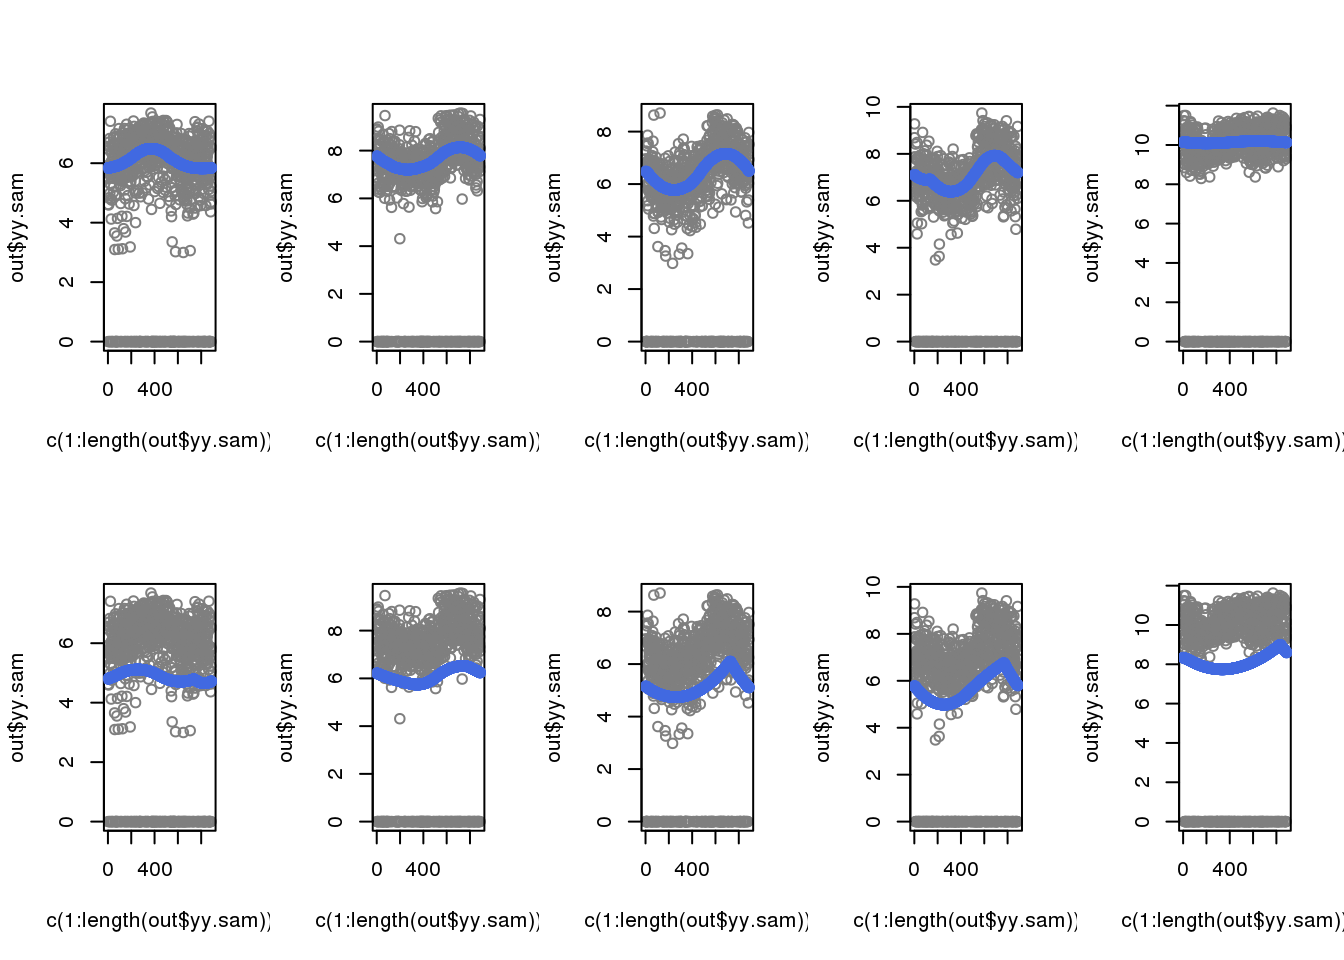
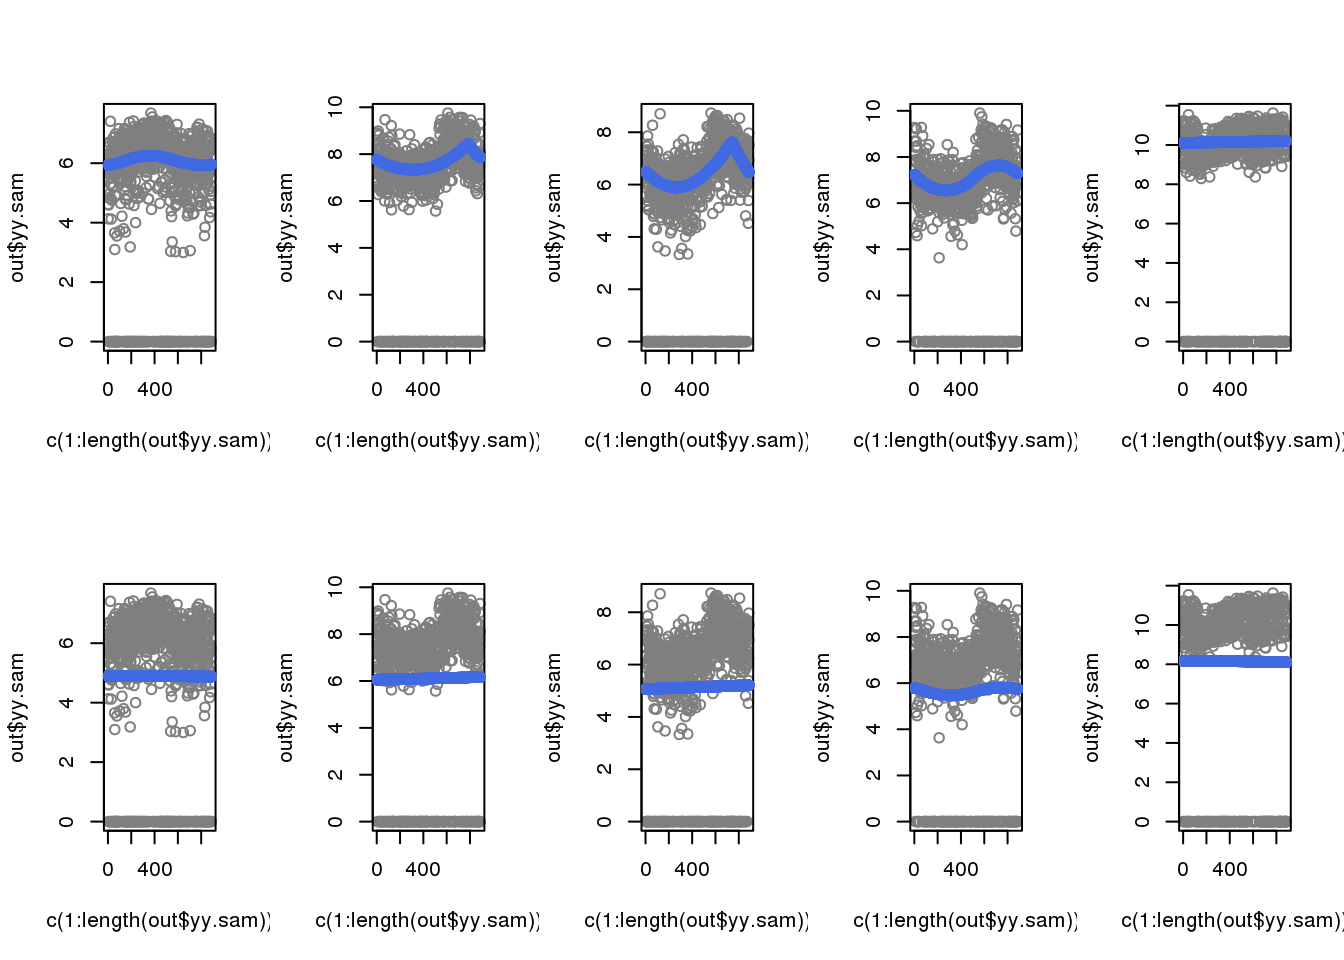
Build site.

diff --git a/docs/npreg-trendfilter-prelim.html b/docs/npreg-trendfilter-prelim.html
@@ -219,11 +219,12 @@ div.section {
 <div id="TOC">
 <ul>
 <li><a href="#data-and-packages">Data and packages</a></li>
-<li><a href="#emprical-data-for-evaluating-methods">Emprical data for evaluating methods</a></li>
+<li><a href="#consider-5-genes-previously-identified-to-be-cyclical">Consider 5 genes previously identified to be cyclical</a></li>
 <li><a href="#property-of-genes-with-many-zeros">Property of genes with many zeros</a></li>
-<li><a href="#simulate-from-the-empirical-data">Simulate from the empirical data</a></li>
+<li><a href="#make-simulated-data-from-the-5-identified-cyclical-genes">Make simulated data from the 5 identified cyclical genes</a><ul>
 <li><a href="#fitting-trendfilter">Fitting trendfilter</a></li>
-<li><a href="#eval-for-selecting-polynomial-order">Eval for selecting polynomial order</a></li>
+<li><a href="#results">Results</a></li>
+</ul></li>
 <li><a href="#session-information">Session information</a></li>
 </ul>
 </div>
@@ -232,10 +233,10 @@ div.section {
 shared across the workflowr files. -->
 <!-- Update knitr chunk options -->
 <!-- Insert the date the file was last updated -->
-<p><strong>Last updated:</strong> 2018-04-17</p>
+<p><strong>Last updated:</strong> 2018-05-07</p>
 <!-- Insert the code version (Git commit SHA1) if Git repository exists and R
  package git2r is installed -->
-<p><strong>Code version:</strong> a8ef094</p>
+<p><strong>Code version:</strong> 41ea88d</p>
 <hr />
 <div id="data-and-packages" class="section level2">
 <h2>Data and packages</h2>
@@ -246,8 +247,6 @@ library(Biobase)
 library(dplyr)
 library(matrixStats)
 
-library(NPCirc)
-library(smashr)
 library(genlasso)</code></pre>
 <p>Load data</p>
 <pre class="r"><code>df &lt;- readRDS(file=&quot;../data/eset-final.rds&quot;)
@@ -268,8 +267,8 @@ source(&quot;../code/utility.R&quot;)
 source(&quot;../code/npreg/npreg.methods.R&quot;)</code></pre>
 <p>–</p>
 </div>
-<div id="emprical-data-for-evaluating-methods" class="section level2">
-<h2>Emprical data for evaluating methods</h2>
+<div id="consider-5-genes-previously-identified-to-be-cyclical" class="section level2">
+<h2>Consider 5 genes previously identified to be cyclical</h2>
 <p>Consider 5 genes previously identified to have cyclical patterns and 5 genes previously identified to not have cyclical patterns. Note that there’s a discrepany (albeit small) between the samples that was used to identify cyclical patterns and the samples that are in the finalized data.</p>
 <pre class="r"><code>examples &lt;- readRDS(&quot;../output/npreg-methods.Rmd/cyclegenes.rds&quot;)
 
@@ -302,6 +301,7 @@ for (i in 1:5) {
   plot(cycles.not.log2cpm[i,], main = cycles.not$hgnc_symbol[i])
 }</code></pre>
 <p><img src="figure/npreg-trendfilter-prelim.Rmd/unnamed-chunk-6-1.png" width="672" style="display: block; margin: auto;" /></p>
+<hr />
 </div>
 <div id="property-of-genes-with-many-zeros" class="section level2">
 <h2>Property of genes with many zeros</h2>
@@ -319,8 +319,8 @@ plot(x=gene_nas, y=gene_means)</code></pre>
 <p><img src="figure/npreg-trendfilter-prelim.Rmd/unnamed-chunk-7-1.png" width="672" style="display: block; margin: auto;" /></p>
 <hr />
 </div>
-<div id="simulate-from-the-empirical-data" class="section level2">
-<h2>Simulate from the empirical data</h2>
+<div id="make-simulated-data-from-the-5-identified-cyclical-genes" class="section level2">
+<h2>Make simulated data from the 5 identified cyclical genes</h2>
 <p>The goal of simulation is to compare the methods in their ability to recover cyclical patterns despite of zero observations.</p>
 <ol style="list-style-type: decimal">
 <li><p>Scenario 1: original data</p></li>
@@ -347,9 +347,8 @@ for (i in 1:5) {
   plot(scene.2[i,], main = cycles$hgnc_symbol[i])
 }</code></pre>
 <p><img src="figure/npreg-trendfilter-prelim.Rmd/unnamed-chunk-8-1.png" width="672" style="display: block; margin: auto;" /></p>
-</div>
-<div id="fitting-trendfilter" class="section level2">
-<h2>Fitting trendfilter</h2>
+<div id="fitting-trendfilter" class="section level3">
+<h3>Fitting trendfilter</h3>
 <p>out.1: excluding zero</p>
 <p>out.2: including zero</p>
 <pre class="r"><code>out.1 &lt;- lapply(1:5, function(i) {
@@ -373,6 +372,10 @@ out.2 &lt;- lapply(1:5, function(i) {
 
 saveRDS(out.1, file = &quot;../output/npreg-trendfilter-prelim.Rmd/out1.rds&quot;)
 saveRDS(out.2, file = &quot;../output/npreg-trendfilter-prelim.Rmd/out2.rds&quot;)</code></pre>
+</div>
+<div id="results" class="section level3">
+<h3>Results</h3>
+<p>When including zeros in the fitting, the previously cyclical trend disappeared.</p>
 <pre class="r"><code>out.1 &lt;- readRDS(file = &quot;../output/npreg-trendfilter-prelim.Rmd/out1.rds&quot;)
 out.2 &lt;- readRDS(file = &quot;../output/npreg-trendfilter-prelim.Rmd/out2.rds&quot;)
 
@@ -392,107 +395,6 @@ for (i in 1:5) {
 <p><img src="figure/npreg-trendfilter-prelim.Rmd/unnamed-chunk-10-1.png" width="672" style="display: block; margin: auto;" /></p>
 <hr />
 </div>
-<div id="eval-for-selecting-polynomial-order" class="section level2">
-<h2>Eval for selecting polynomial order</h2>
-<pre class="r"><code>theta &lt;- readRDS(&quot;../output/images-time-eval.Rmd/theta.rds&quot;)
-
-chip_ids &lt;- c(&quot;NA18511&quot;,&quot;NA18855&quot;,&quot;NA18870&quot;,&quot;NA19098&quot;,&quot;NA19101&quot;,&quot;NA19160&quot;)
-
-id &lt;- which(pdata$chip_id == chip_ids[1])
-log2cpm.sub &lt;- log2cpm.all[rownames(log2cpm.all) %in% symbols$ensembl_gene_id[1:5],]
-theta.train &lt;- theta[-id]
-theta.test &lt;- theta[id]
-
-out.order2 &lt;- lapply(1:5, function(i) {
-  yy &lt;- log2cpm.sub[i,]
-  yy.train &lt;- yy[-id]
-  yy.test &lt;- yy[id]
-  pos.yy.train &lt;- c(1:length(yy))[-id]
-  pos.yy.test &lt;- c(1:length(yy))[id]
-  nonzero.test &lt;- yy.test!=0
-    
-  out.trend &lt;- fit.trendfilter(yy=yy.train, pos.yy = pos.yy.train, polyorder = 2)
-  f &lt;- approxfun(x=out.trend$trend.pos, y=out.trend$trend.yy, rule=2)  
-  
-  test.mad.pred &lt;- mad(yy.test[nonzero.test]-f(pos.yy.test[nonzero.test]), constant = 1)
-  test.mad.constant &lt;- mad(yy.test[nonzero.test]-mean(yy.test[nonzero.test]), constant = 1)
-  test.mad.ratio &lt;- test.mad.pred/test.mad.constant
-
-  return(list(yy=yy,
-              yy.train=yy.train,
-              pos.train=pos.yy.train,
-              yy.test=yy.test,
-              pos.test=pos.yy.test,
-              pred.train.yy=out.trend$trend.yy,
-              pred.train.xx=out.trend$trend.pos,
-              pred.test.yy=f(pos.yy.test),
-              pred.test.xx=pos.yy.test,
-              test.mad.ratio=test.mad.ratio,
-              train.mad.ratio=out.trend$trend.mad.ratio))
-})
-
-
-out.order3 &lt;- lapply(1:5, function(i) {
-  yy &lt;- log2cpm.sub[i,]
-  yy.train &lt;- yy[-id]
-  yy.test &lt;- yy[id]
-  pos.yy.train &lt;- c(1:length(yy))[-id]
-  pos.yy.test &lt;- c(1:length(yy))[id]
-  nonzero.test &lt;- yy.test!=0
-    
-  out.trend &lt;- fit.trendfilter(yy=yy.train, pos.yy = pos.yy.train, polyorder = 3)
-  f &lt;- approxfun(x=out.trend$trend.pos, y=out.trend$trend.yy, rule=2)  
-  
-  test.mad.pred &lt;- mad(yy.test[nonzero.test]-f(pos.yy.test[nonzero.test]), constant = 1)
-  test.mad.constant &lt;- mad(yy.test[nonzero.test]-mean(yy.test[nonzero.test]), constant = 1)
-  test.mad.ratio &lt;- test.mad.pred/test.mad.constant
-
-  return(list(yy=yy,
-              yy.train=yy.train,
-              pos.train=pos.yy.train,
-              yy.test=yy.test,
-              pos.test=pos.yy.test,
-              pred.train.yy=out.trend$trend.yy,
-              pred.train.xx=out.trend$trend.pos,
-              pred.test.yy=f(pos.yy.test),
-              pred.test.xx=pos.yy.test,
-              test.mad.ratio=test.mad.ratio,
-              train.mad.ratio=out.trend$trend.mad.ratio))
-})
-
-saveRDS(out.order2, file = &quot;../output/npreg-trendfilter-prelim.Rmd/out.order2.rds&quot;)
-saveRDS(out.order3, file = &quot;../output/npreg-trendfilter-prelim.Rmd/out.order3.rds&quot;)</code></pre>
-<pre class="r"><code>out.order2 &lt;- readRDS(file = &quot;../output/npreg-trendfilter-prelim.Rmd/out.order2.rds&quot;)
-out.order3 &lt;- readRDS(file = &quot;../output/npreg-trendfilter-prelim.Rmd/out.order3.rds&quot;)
-
-par(mfrow=c(2,5))
-for (i in 1:length(out.order2)) {
-  with(out.order2[[i]], {
-    plot(y=yy.train, x=pos.train, col = &quot;gray50&quot;)
-    lines(y=pred.train.yy, x=pred.train.xx, col = &quot;black&quot;, lwd=1)
-    points(y=yy.test,x=pos.test, col = &quot;blue&quot;, pch=16, cex=.7)
-    lines(y=pred.test.yy, x=pred.test.xx, col = &quot;blue&quot;, lwd=2)
-  })
-}
-for (i in 1:length(out.order3)) {
-  with(out.order3[[i]], {
-    plot(y=yy.train, x=pos.train, col = &quot;gray50&quot;)
-    lines(y=pred.train.yy, x=pred.train.xx, col = &quot;black&quot;, lwd=1)
-    points(y=yy.test,x=pos.test, col = &quot;blue&quot;, pch=16, cex=.7)
-    lines(y=pred.test.yy, x=pred.test.xx, col = &quot;blue&quot;, lwd=2)
-  })
-}</code></pre>
-<p><img src="figure/npreg-trendfilter-prelim.Rmd/unnamed-chunk-12-1.png" width="672" style="display: block; margin: auto;" /></p>
-<pre class="r"><code>test.order2 &lt;- sapply(out.order2, function(x) x$test.mad.ratio)
-test.order3 &lt;- sapply(out.order3, function(x) x$test.mad.ratio)
-cbind(test.order2,test.order3)</code></pre>
-<pre><code>     test.order2 test.order3
-[1,]   1.0202802    1.003311
-[2,]   0.9649802    1.016837
-[3,]   0.9868747    1.020511
-[4,]   1.0450214    1.068419
-[5,]   1.0001935    1.161451</code></pre>
-<hr />
 </div>
 <div id="session-information" class="section level2">
 <h2>Session information</h2>
@@ -518,35 +420,27 @@ attached base packages:
 
 other attached packages:
  [1] biomaRt_2.34.2      genlasso_1.3        igraph_1.2.1       
- [4] smashr_1.1-0        caTools_1.17.1      data.table_1.10.4-3
- [7] Matrix_1.2-10       wavethresh_4.6.8    MASS_7.3-47        
-[10] ashr_2.2-7          Rcpp_0.12.16        NPCirc_2.0.1       
-[13] matrixStats_0.53.1  dplyr_0.7.4         Biobase_2.38.0     
-[16] BiocGenerics_0.24.0 conicfit_1.0.4      geigen_2.1         
-[19] pracma_2.1.4        circular_0.4-93    
+ [4] Matrix_1.2-10       MASS_7.3-47         matrixStats_0.53.1 
+ [7] dplyr_0.7.4         Biobase_2.38.0      BiocGenerics_0.24.0
+[10] conicfit_1.0.4      geigen_2.1          pracma_2.1.4       
+[13] circular_0.4-93    
 
 loaded via a namespace (and not attached):
- [1] httr_1.3.1           bit64_0.9-7          jsonlite_1.5        
- [4] foreach_1.4.4        shiny_1.0.5          assertthat_0.2.0    
- [7] stats4_3.4.1         blob_1.1.0           yaml_2.1.18         
-[10] progress_1.1.2       slam_0.1-42          pillar_1.2.1        
-[13] RSQLite_2.0          backports_1.1.2      lattice_0.20-35     
-[16] glue_1.2.0           digest_0.6.15        htmltools_0.3.6     
-[19] httpuv_1.3.6.2       XML_3.98-1.10        pkgconfig_2.0.1     
-[22] misc3d_0.8-4         xtable_1.8-2         mvtnorm_1.0-7       
-[25] git2r_0.21.0         tibble_1.4.2         IRanges_2.12.0      
-[28] movMF_0.2-2          magrittr_1.5         mime_0.5            
-[31] memoise_1.1.0        evaluate_0.10.1      doParallel_1.0.11   
-[34] truncnorm_1.0-8      tools_3.4.1          prettyunits_1.0.2   
-[37] stringr_1.3.0        S4Vectors_0.16.0     plotrix_3.7         
-[40] AnnotationDbi_1.40.0 bindrcpp_0.2         compiler_3.4.1      
-[43] rlang_0.2.0          grid_3.4.1           RCurl_1.95-4.10     
-[46] iterators_1.0.9      htmlwidgets_1.0      crosstalk_1.0.0     
-[49] bitops_1.0-6         rmarkdown_1.9        boot_1.3-19         
-[52] codetools_0.2-15     curl_3.1             DBI_0.8             
-[55] R6_2.2.2             knitr_1.20           bit_1.1-12          
-[58] bindr_0.1.1          rprojroot_1.3-2      shape_1.4.4         
-[61] stringi_1.1.7        pscl_1.5.2           SQUAREM_2017.10-1   </code></pre>
+ [1] progress_1.1.2       lattice_0.20-35      htmltools_0.3.6     
+ [4] stats4_3.4.1         yaml_2.1.18          blob_1.1.0          
+ [7] XML_3.98-1.10        rlang_0.2.0          pillar_1.2.1        
+[10] glue_1.2.0           DBI_0.8              bit64_0.9-7         
+[13] bindrcpp_0.2         bindr_0.1.1          stringr_1.3.0       
+[16] mvtnorm_1.0-7        evaluate_0.10.1      memoise_1.1.0       
+[19] knitr_1.20           IRanges_2.12.0       curl_3.1            
+[22] AnnotationDbi_1.40.0 Rcpp_0.12.16         backports_1.1.2     
+[25] S4Vectors_0.16.0     bit_1.1-12           digest_0.6.15       
+[28] stringi_1.1.7        grid_3.4.1           rprojroot_1.3-2     
+[31] tools_3.4.1          bitops_1.0-6         magrittr_1.5        
+[34] RCurl_1.95-4.10      tibble_1.4.2         RSQLite_2.0         
+[37] pkgconfig_2.0.1      prettyunits_1.0.2    assertthat_0.2.0    
+[40] rmarkdown_1.9        httr_1.3.1           R6_2.2.2            
+[43] boot_1.3-19          git2r_0.21.0         compiler_3.4.1      </code></pre>
 </div>
 
 <!-- Adjust MathJax settings so that all math formulae are shown using
